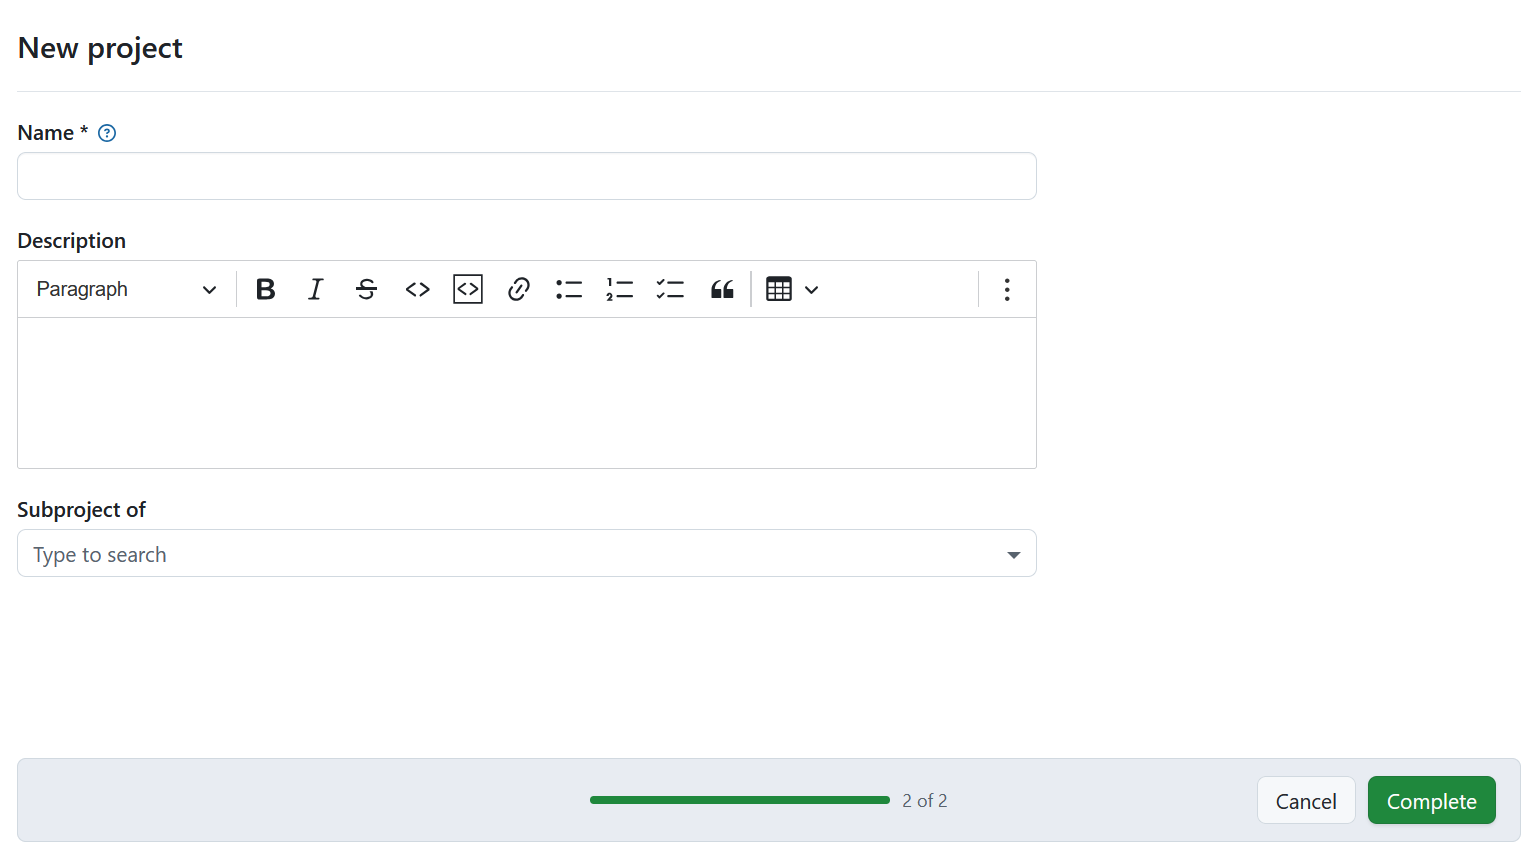
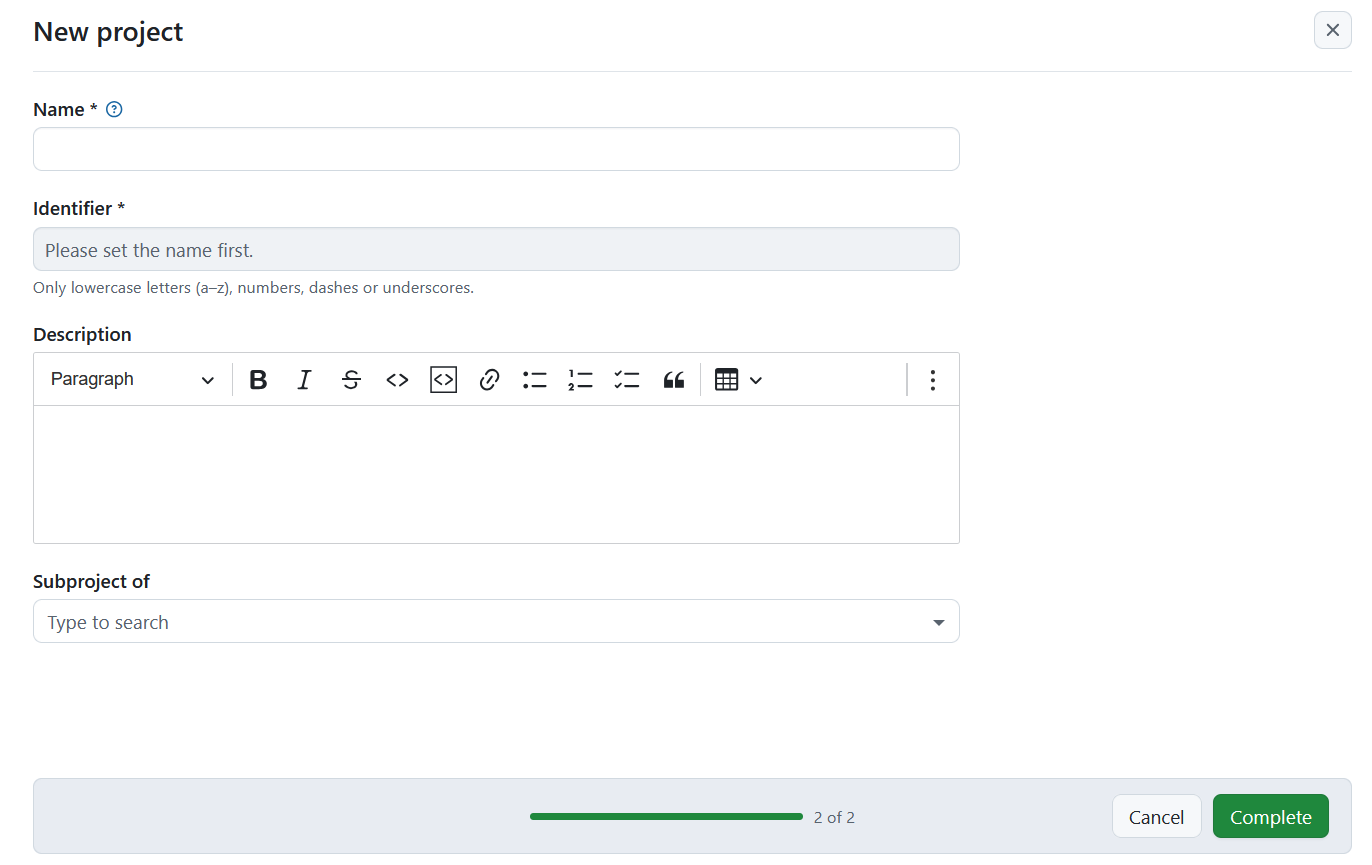
Merge pull request #23139 from opf/merge-release/17.4-20260508131130
Merge release/17.4 into dev

Pull request: Merge release/17.4 into dev
Created by GitHub action

diff --git a/frontend/src/stimulus/controllers/dynamic/generic-drag-and-drop.controller.spec.ts b/frontend/src/stimulus/controllers/dynamic/generic-drag-and-drop.controller.spec.ts
@@ -63,12 +63,6 @@ describe('GenericDragAndDropController', () => {
     return ariaPressedTarget.call(controller, el);
   }
 
-  function callResolveMirrorContainer():Element {
-    const resolveMirrorContainer = Reflect.get(controller, 'resolveMirrorContainer') as (this:GenericDragAndDropController) => Element;
-
-    return resolveMirrorContainer.call(controller);
-  }
-
   describe('canStartDrag', () => {
     it('allows dragging a draggable row in handle-less mode', () => {
       const row = draggableRow();
@@ -144,23 +138,6 @@ describe('GenericDragAndDropController', () => {
       setValue('handleSelectorValue', '.DragHandle');
 
       expect(callAriaPressedTarget(row)).toBe(handle);
-    });
-  });
-
-  describe('resolveMirrorContainer', () => {
-    it('returns the configured mirror container target when present', () => {
-      const mirrorContainer = document.createElement('div');
-
-      Object.defineProperty(controller, 'hasMirrorContainerTarget', { value: true, configurable: true });
-      Object.defineProperty(controller, 'mirrorContainerTarget', { value: mirrorContainer, configurable: true });
-
-      expect(callResolveMirrorContainer()).toBe(mirrorContainer);
-    });
-
-    it('falls back to document.body when no mirror container target exists', () => {
-      Object.defineProperty(controller, 'hasMirrorContainerTarget', { value: false, configurable: true });
-
-      expect(callResolveMirrorContainer()).toBe(document.body);
     });
   });
 });

diff --git a/frontend/src/stimulus/controllers/dynamic/generic-drag-and-drop.controller.ts b/frontend/src/stimulus/controllers/dynamic/generic-drag-and-drop.controller.ts
@@ -43,12 +43,10 @@ interface TargetConfig {
 }
 
 export default class GenericDragAndDropController extends Controller {
-  static targets = ['container', 'scrollContainer', 'mirrorContainer'];
+  static targets = ['container', 'scrollContainer'];
 
   containerTargets:HTMLElement[];
   scrollContainerTargets:HTMLElement[];
-  declare readonly hasMirrorContainerTarget:boolean;
-  declare readonly mirrorContainerTarget:HTMLElement;
 
   static values = {
     handle: { type: Boolean, default: true },
@@ -129,7 +127,6 @@ export default class GenericDragAndDropController extends Controller {
         moves: (el, _source, handle, _sibling) => this.canStartDrag(el, handle),
         accepts: (el:Element, target:Element, source:Element, sibling:Element) => this.accepts(el, target, source, sibling),
         revertOnSpill: true, // enable reverting of elements if they are dropped outside of a valid target
-        mirrorContainer: this.resolveMirrorContainer(),
       },
     )
       .on('cloned', (clone, _original, type) => {
@@ -258,10 +255,6 @@ export default class GenericDragAndDropController extends Controller {
     const container = target.querySelector<HTMLElement>(accessor);
     invariant(container, `Expected container element matching "${accessor}"`);
     return container;
-  }
-
-  private resolveMirrorContainer():Element {
-    return this.hasMirrorContainerTarget ? this.mirrorContainerTarget : document.body;
   }
 
   // Returns the data-draggable-id of the element preceding el in its container,

diff --git a/modules/backlogs/spec/requests/backlogs/backlog_spec.rb b/modules/backlogs/spec/requests/backlogs/backlog_spec.rb
@@ -106,26 +106,6 @@ RSpec.describe "Backlogs::Backlog", :skip_csrf, type: :rails_request do
           expect(response.body).to include('id="sprint_backlogs_container"')
         end
       end
-
-      it "uses the inbox border box as the drag mirror container" do
-        get "/projects/#{project.identifier}/backlogs/backlog", headers: { "Turbo-Frame" => "backlogs_container" }
-
-        expect(response).to have_http_status(:ok)
-        expect(response.body).to include(%(id="inbox_project_#{project.id}"))
-        expect(response.body).to include('data-generic-drag-and-drop-target="container mirrorContainer"')
-      end
-
-      context "with backlog buckets enabled", with_flag: { backlog_buckets: true } do
-        shared_let(:backlog_bucket) { create(:backlog_bucket, project:) }
-
-        it "uses each backlog bucket border box as the drag mirror container" do
-          get "/projects/#{project.identifier}/backlogs/backlog", headers: { "Turbo-Frame" => "backlogs_container" }
-
-          expect(response).to have_http_status(:ok)
-          expect(response.body).to include(%(data-test-selector="backlog-bucket-#{backlog_bucket.id}"))
-          expect(response.body).to include('data-generic-drag-and-drop-target="container mirrorContainer"')
-        end
-      end
     end
   end
 

diff --git a/app/components/open_project/common/work_package_card_box_component.rb b/app/components/open_project/common/work_package_card_box_component.rb
@@ -297,7 +297,7 @@ module OpenProject
         {
           # Existing callers share one mirror container target on the page until
           # parent-specific DnD handling is extracted in follow-up work.
-          generic_drag_and_drop_target: "container mirrorContainer",
+          generic_drag_and_drop_target: "container",
           target_container_accessor: ":scope > ul",
           target_id: drag_and_drop.fetch(:target_id),
           target_allowed_drag_type: drag_and_drop.fetch(:allowed_drag_type)

diff --git a/modules/backlogs/spec/components/backlogs/bucket_component_spec.rb b/modules/backlogs/spec/components/backlogs/bucket_component_spec.rb
@@ -119,7 +119,7 @@ RSpec.describe Backlogs::BucketComponent, type: :component do
 
       it "wires the bucket drop-target data on the box" do
         expect(rendered_component).to have_css(".Box") do |box|
-          expect(box["data-generic-drag-and-drop-target"]).to eq("container mirrorContainer")
+          expect(box["data-generic-drag-and-drop-target"]).to eq("container")
           expect(box["data-target-id"]).to eq("backlog_bucket:#{backlog_bucket.id}")
           expect(box["data-target-allowed-drag-type"]).to eq("story")
         end

diff --git a/modules/backlogs/spec/components/backlogs/inbox_component_spec.rb b/modules/backlogs/spec/components/backlogs/inbox_component_spec.rb
@@ -64,7 +64,7 @@ RSpec.describe Backlogs::InboxComponent, type: :component do
 
     it "wires drop-target data attributes for the inbox" do
       expect(page).to have_css(".Box#inbox_project_#{project.id}") do |box|
-        expect(box["data-generic-drag-and-drop-target"]).to eq("container mirrorContainer")
+        expect(box["data-generic-drag-and-drop-target"]).to eq("container")
         expect(box["data-target-id"]).to eq("inbox")
         expect(box["data-target-allowed-drag-type"]).to eq("story")
       end

diff --git a/modules/backlogs/spec/components/backlogs/sprint_component_spec.rb b/modules/backlogs/spec/components/backlogs/sprint_component_spec.rb
@@ -94,7 +94,7 @@ RSpec.describe Backlogs::SprintComponent, type: :component do
 
       it "wires drop-target data attributes for the sprint" do
         expect(rendered_component).to have_css(".Box") do |box|
-          expect(box["data-generic-drag-and-drop-target"]).to eq("container mirrorContainer")
+          expect(box["data-generic-drag-and-drop-target"]).to eq("container")
           expect(box["data-target-container-accessor"]).to eq(":scope > ul")
           expect(box["data-target-id"]).to eq("sprint:#{sprint.id}")
           expect(box["data-target-allowed-drag-type"]).to eq("story")

diff --git a/spec/components/open_project/common/work_package_card_box_component_spec.rb b/spec/components/open_project/common/work_package_card_box_component_spec.rb
@@ -165,7 +165,7 @@ RSpec.describe OpenProject::Common::WorkPackageCardBoxComponent, type: :componen
 
         it "uses the configured drag-and-drop data" do
           expect(rendered_component).to have_css(".Box") do |box|
-            expect(box["data-generic-drag-and-drop-target"]).to eq("container mirrorContainer")
+            expect(box["data-generic-drag-and-drop-target"]).to eq("container")
             expect(box["data-target-container-accessor"]).to eq(":scope > ul")
             expect(box["data-target-id"]).to eq("sprint:#{sprint.id}")
             expect(box["data-target-allowed-drag-type"]).to eq("story")

diff --git a/docs/getting-started/projects/README.md b/docs/getting-started/projects/README.md
@@ -89,7 +89,15 @@ Click **Continue** to proceed.
 
 ### Define project details
 
-Next, enter the **name** and an optional **description** for your project.  You can also integrate the project into your existing project hierarchy by selecting a **parent project**, which will make the new project a **subproject**.
+Next, enter the **name**  for your project. 
+
+Based on the project name, OpenProject automatically suggests an **identifier**. You can edit the suggested identifier manually if needed. The identifier is validated automatically to ensure it follows the required rules.
+
+> [!NOTE]
+> The identifier suggestion updates automatically when you change the project name.
+> If you manually edit the identifier and later go back to change the project name again, OpenProject updates the identifier suggestion once more.
+
+You can also optionally enter a **description** for your project.  You can also integrate the project into your existing project hierarchy by selecting a **parent project**, which will make the new project a **subproject**.
 
 Click **Complete** to finish the setup.
 